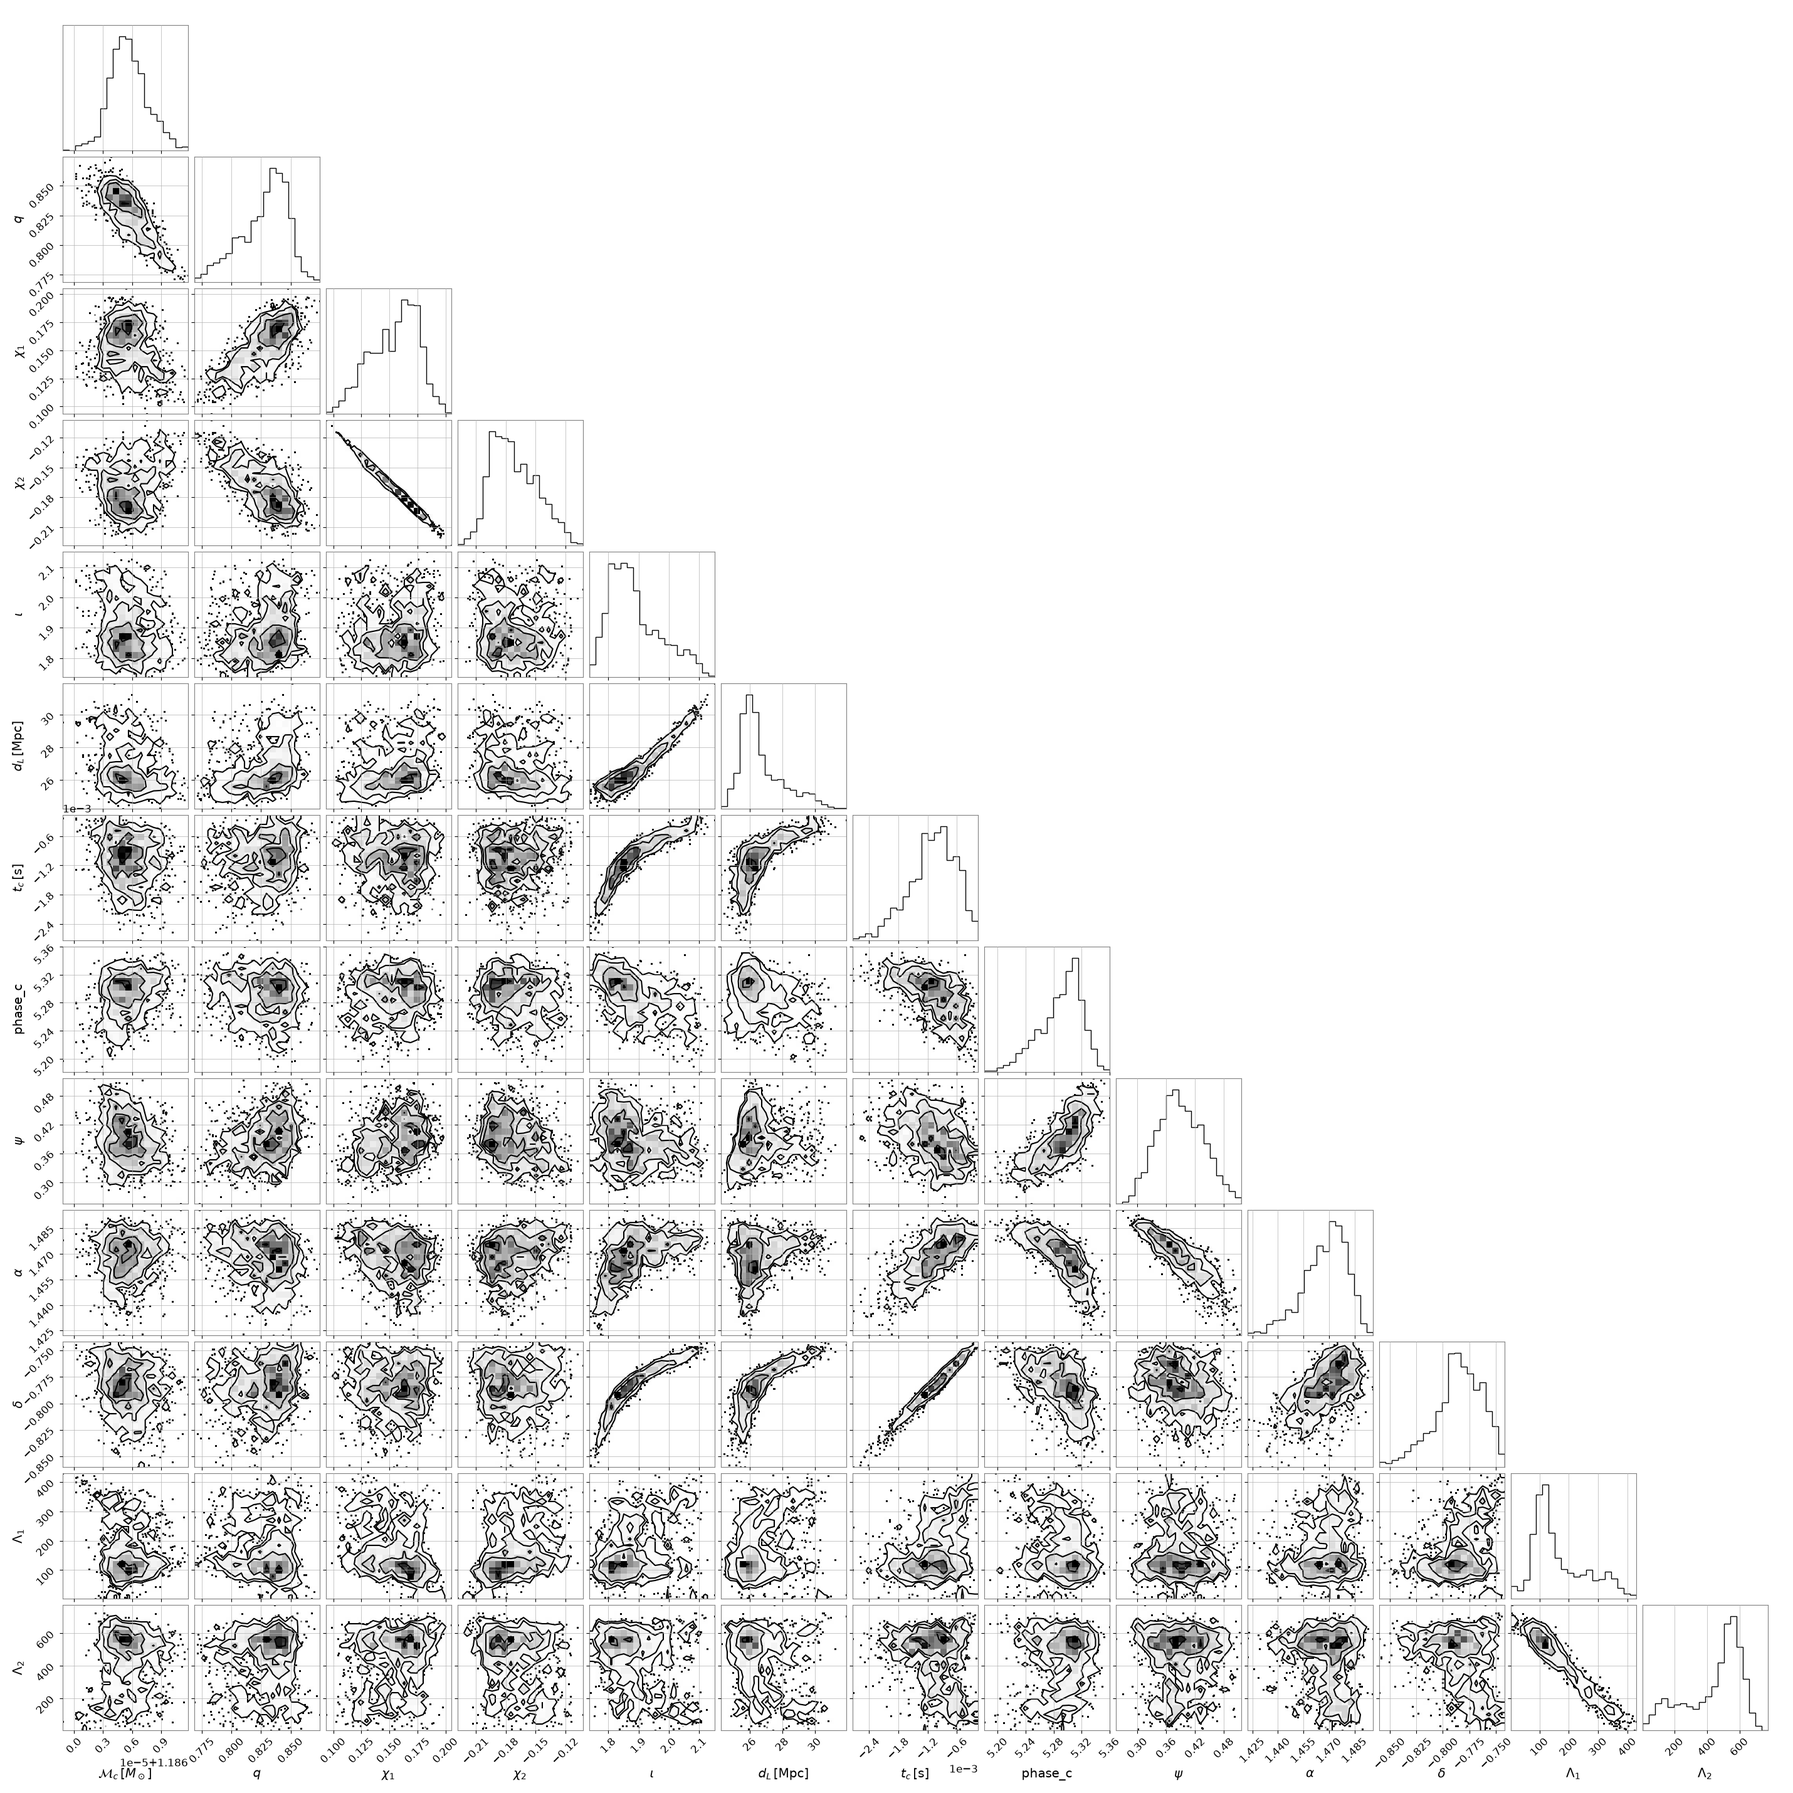
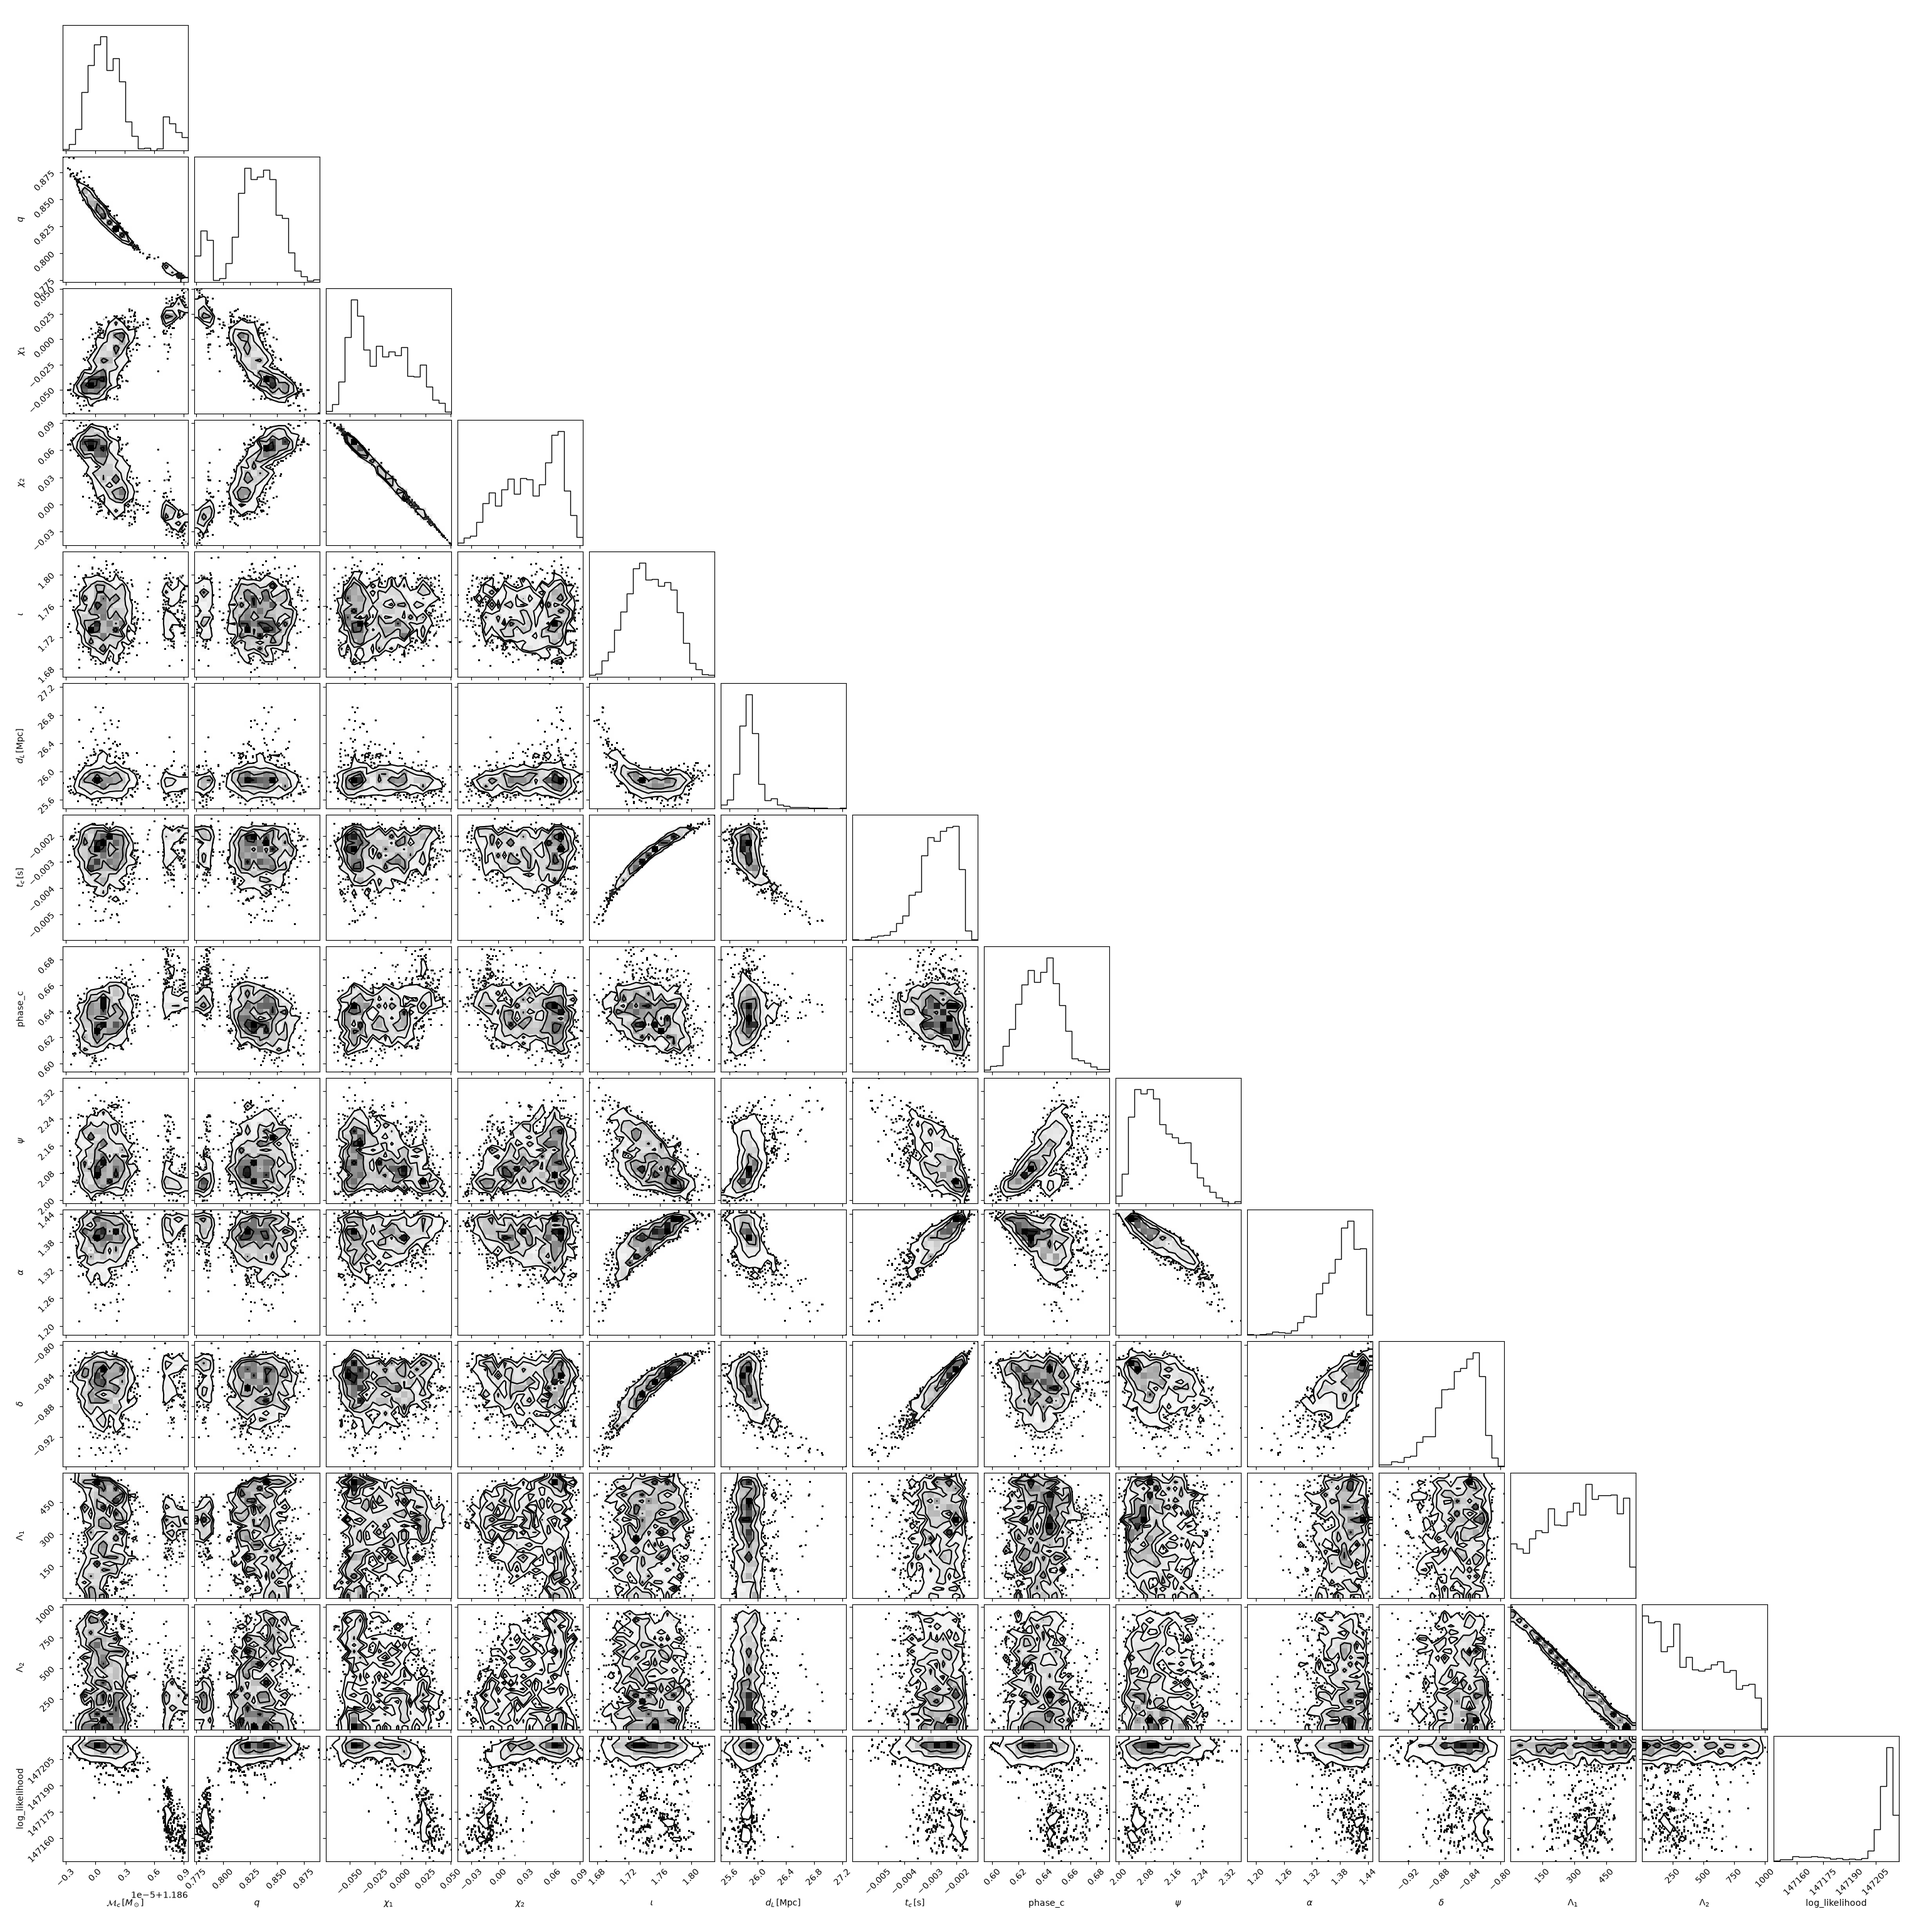
hi

Changed region(s): [[0.0, 0.0311, 0.9958, 0.9958]]

diff --git a/Otmar_Thesis/corner_plot.py b/Otmar_Thesis/corner_plot.py
@@ -5,14 +5,16 @@ import corner
 import numpy as np
 # Define directories and base filename
 data_dir = Path("./DATA")
-base_name = "sample_data_GW170817_FlowMC_Multiband"
+base_name = "sample_data_GW170817_FlowMC_Multiband.npz"
 # Build file paths
 
-npz_path = data_dir / f"{base_name}.npz"
+npz_path = data_dir / base_name
 
 # Load .npz archive safely into a dictionary
 with np.load(npz_path) as data:
     chains = {key: data[key] for key in data.files}
+
+print(chains)
 
 parameter_labels = {
     "M_c": r"$\mathcal{M}_c\,[M_\odot]$",
@@ -29,7 +31,7 @@ parameter_labels = {
     "lambda_2": r"$\Lambda_2$",
 }
 #%%
-print("plotting")
+print("Plotting")
 # Replaces jim.prior.parameter_names: use the keys in the file, in file order
 parameter_names = list(chains.keys())
 
@@ -40,5 +42,5 @@ fig = corner.corner(
     samples,
     labels=[parameter_labels.get(k, k) for k in parameter_names],
 )
-
+print("Plotting done")
 fig.savefig(Path(__file__).parent/ "Figures" / "GW170817_FlowMC_Multiband_ET_OTMAR.png")

diff --git a/Otmar_Thesis/Old_code/GW170817_FlowMC_Multiband_ET_OTMAR_to_file.py b/Otmar_Thesis/Old_code/GW170817_FlowMC_Multiband_ET_OTMAR_to_file.py
@@ -198,6 +198,6 @@ print(f"Likelihood evaluations: {diagnostics['n_likelihood_evaluations']:,}")
 
 chains = jim.get_samples()
 
-np.savez_compressed("./DATA/sample_data_GW170817_FlowMC_Multiband.npz", **chains)
+np.savez_compressed("./DATA/sample_data_GW170817_FlowMC_Multiband.npz", **chains) 
 
 
